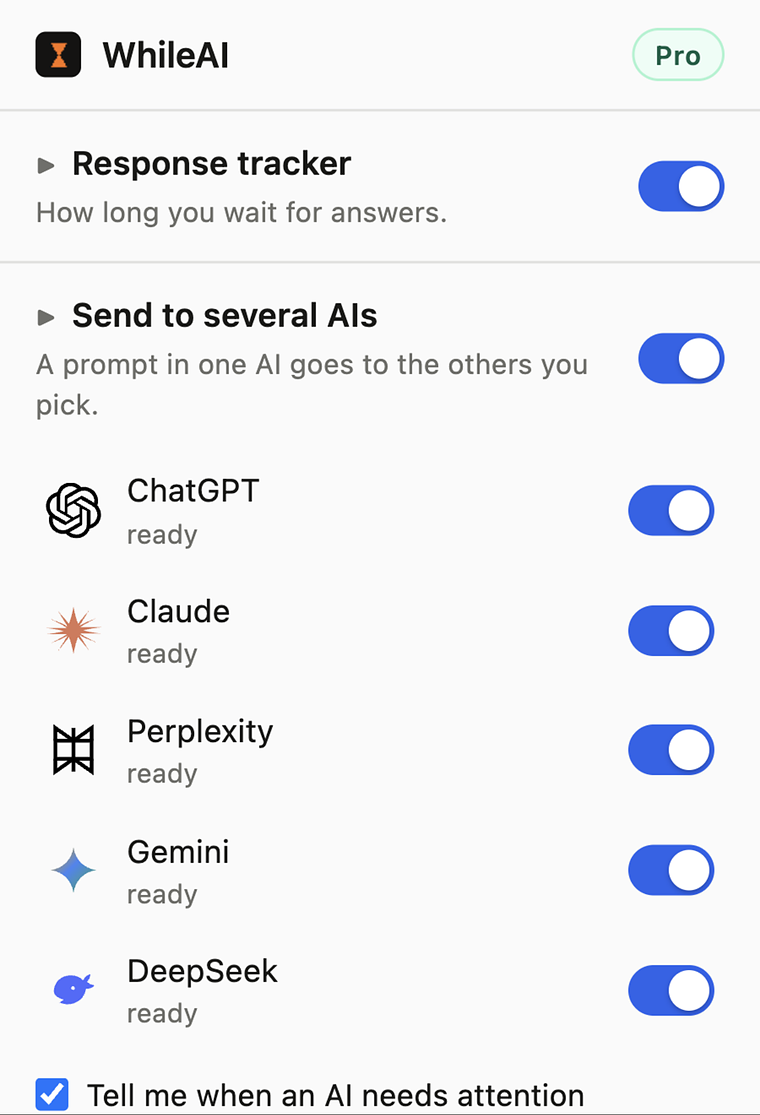
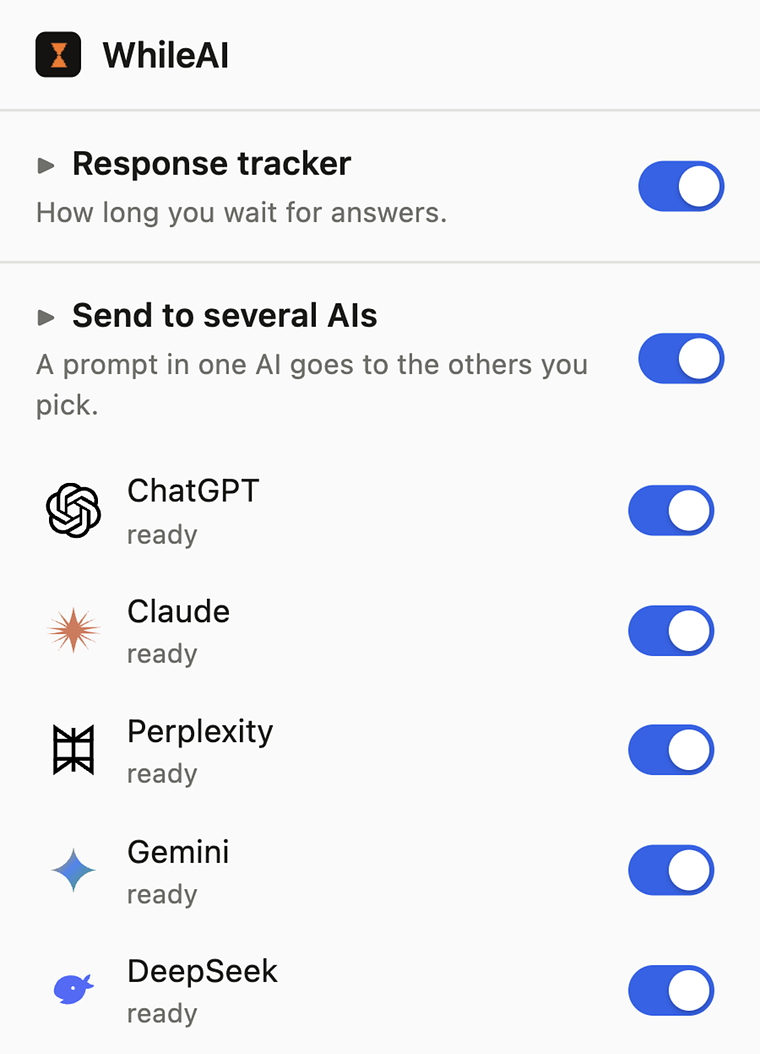
feat(whileai): teams reachable from the site, no fixed teams price, panel image without Pro

diff --git a/whileai/teams/index.html b/whileai/teams/index.html
@@ -71,7 +71,7 @@
 
 <header class="top"><div class="wrap">
   <a class="brand" href="/whileai/teams/"><img src="../img/icon.png" alt="">WhileAI for Teams</a>
-  <nav><a href="#reports">What you get</a><a href="#how">How it works</a><a href="#never">What it never does</a><a href="#join">Early access</a></nav>
+  <nav><a href="/whileai/">WhileAI</a><a href="#reports">What you get</a><a href="#how">How it works</a><a href="#never">What it never does</a><a href="#join">Early access</a></nav>
 </div></header>
 
 <div class="wrap">
@@ -85,7 +85,7 @@
   for that nobody opens, and who is getting value.</p>
   <div class="actions">
     <a class="btn" href="#join">Join early access</a>
-    <span class="note">Built with the first five teams. Planned price: $5 per person a month.</span>
+    <span class="note">Built with the first five teams. Pricing is set together with them.</span>
   </div>
 </section>
 
@@ -186,7 +186,7 @@
       <label class="choice"><input type="radio" name="focus" value="other"> Something else (tell me below)</label>
     </fieldset>
     <label class="choice pilot"><input type="checkbox" name="pilot">
-      <span><b>We would join a paid pilot.</b> The first month is free; after that $5 per person a month, cancel any time.</span></label>
+      <span><b>We would join a paid pilot.</b> The price is agreed with you before it starts, and the first month is free.</span></label>
     <label><b>Anything else?</b>
       <textarea name="note" maxlength="500" placeholder="How many people, which AI tools you pay for, what you would want to see"></textarea></label>
     <label class="hp" aria-hidden="true">Website <input type="text" name="website" tabindex="-1" autocomplete="off"></label>
@@ -212,8 +212,9 @@
       <p>Ahmet Aytar, an independent developer in Istanbul. One person, so you
       will be talking to whoever writes the code.</p></details>
     <details><summary>What will it cost?</summary>
-      <p>The plan is $5 per person a month. Early-access teams get the first
-      month free and keep their price.</p></details>
+      <p>Not fixed yet. I am setting it with the first teams, against what the
+      report saves you in unused seats. Early-access teams get the first month
+      free and keep the price they agree.</p></details>
   </div>
 </section>
 

diff --git a/whileai/index.html b/whileai/index.html
@@ -19,7 +19,7 @@
 
 <header class="top"><div class="wrap">
   <a class="brand" href="/"><img src="img/icon.png" alt="">Ahmet Aytar</a>
-  <nav><a href="#how">How it works</a><a href="#time">Your AI time</a><a href="#pricing">Pricing</a><a href="#install">Installing</a><a href="#help">Questions</a></nav>
+  <nav><a href="#how">How it works</a><a href="#time">Your AI time</a><a href="#pricing">Pricing</a><a href="#help">Questions</a><a href="teams/">For teams</a></nav>
 </div></header>
 
 <div class="wrap">
@@ -95,7 +95,7 @@
 
   <div class="panelrow">
     <figure class="panelshot">
-      <img src="img/panel.png" alt="The WhileAI panel showing ChatGPT, Claude, Perplexity, Gemini and DeepSeek, each marked ready with its own toggle." width="760" height="1115">
+      <img src="img/panel.png" alt="The WhileAI panel showing ChatGPT, Claude, Perplexity, Gemini and DeepSeek, each marked ready with its own toggle." width="760" height="1054">
     </figure>
     <div class="panelcopy">
       <h3>The whole interface is this panel</h3>
@@ -287,6 +287,7 @@
 <footer><div class="wrap">
   <span>&copy; 2026 Ahmet Aytar</span>
   <a href="/">Home</a>
+  <a href="teams/">For teams</a>
   <a href="privacy/">Privacy</a>
   <span class="spacer">Not affiliated with OpenAI, Anthropic, Perplexity, Google or DeepSeek.</span>
 </div></footer>

diff --git a/index.html b/index.html
@@ -48,6 +48,17 @@
       not using?</p>
     </a>
 
+    <a class="project" href="/whileai/teams/">
+      <div class="row">
+        <img src="whileai/img/icon.png" alt="">
+        <span class="name">WhileAI for Teams</span>
+        <span class="meta">Early access</span>
+      </div>
+      <p>For teams of 10 to 200: which AI tools your people use, which paid
+      seats nobody opens, and who is getting value. Installed once by your
+      admin, and it never reads a prompt or an answer.</p>
+    </a>
+
     <div class="project soon">
       <div class="row">
         <span class="name">More coming</span>
